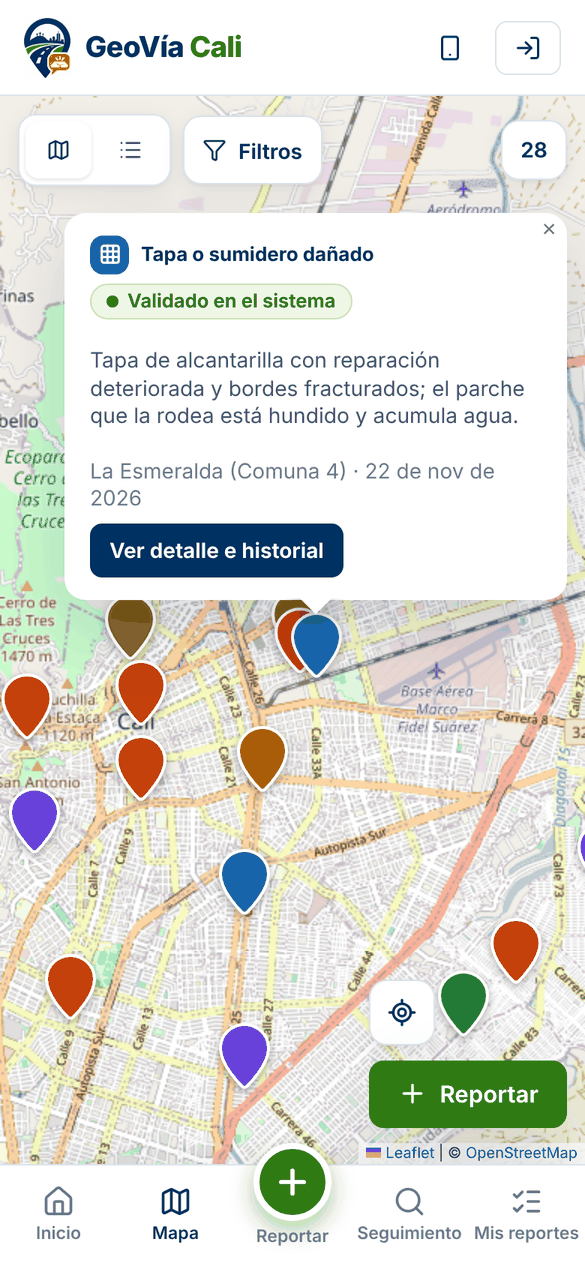
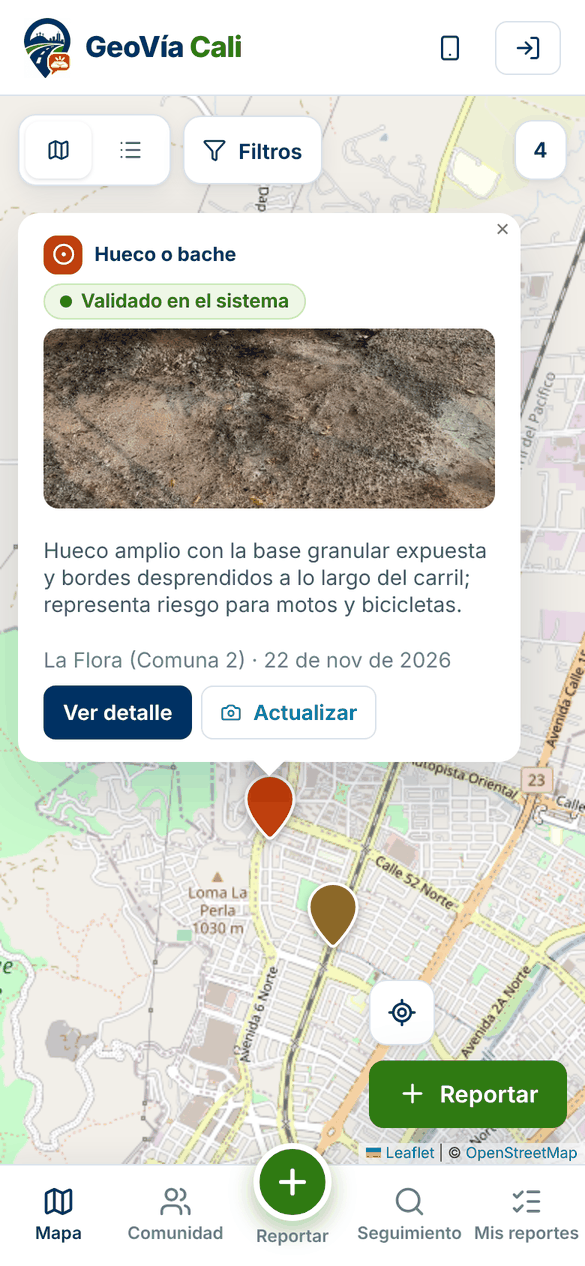
Capturas de producción: comunidad, actualización y mapa

diff --git a/README.md b/README.md
@@ -107,7 +107,7 @@ GeoVía Cali es un proyecto de grado de Ingeniería de Sistemas (UNAD), desarrol
     <td align="center"><img src="docs/img/10-confirmacion.png" width="200"><br><sub>Código de seguimiento</sub></td>
     <td align="center"><img src="docs/img/12-ficha-reporte.png" width="200"><br><sub>Ficha del reporte</sub></td>
     <td align="center"><img src="docs/img/13-ficha-historial.png" width="200"><br><sub>Historial de estados</sub></td>
-    <td align="center"><img src="docs/img/16-ayuda.png" width="200"><br><sub>Centro de ayuda</sub></td>
+    <td align="center"><img src="docs/img/18-comunidad.png" width="200"><br><sub>Comunidad</sub></td>
   </tr>
 </table>
 
